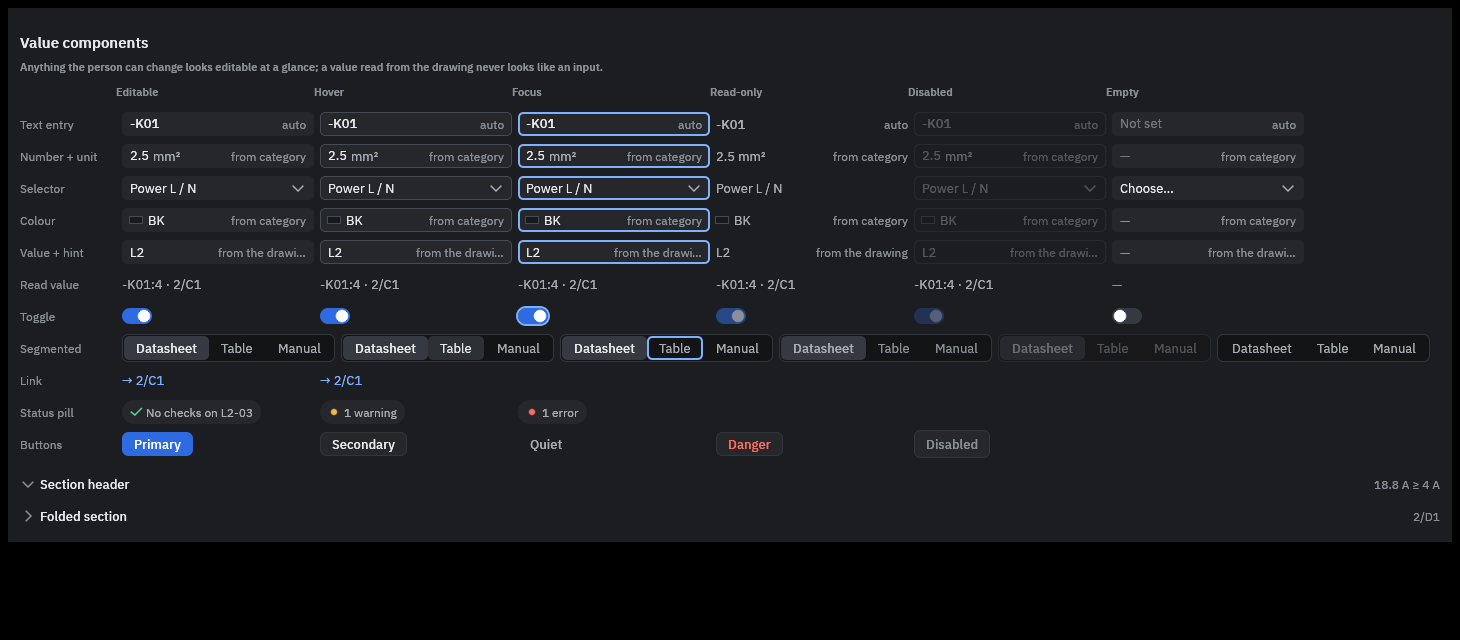
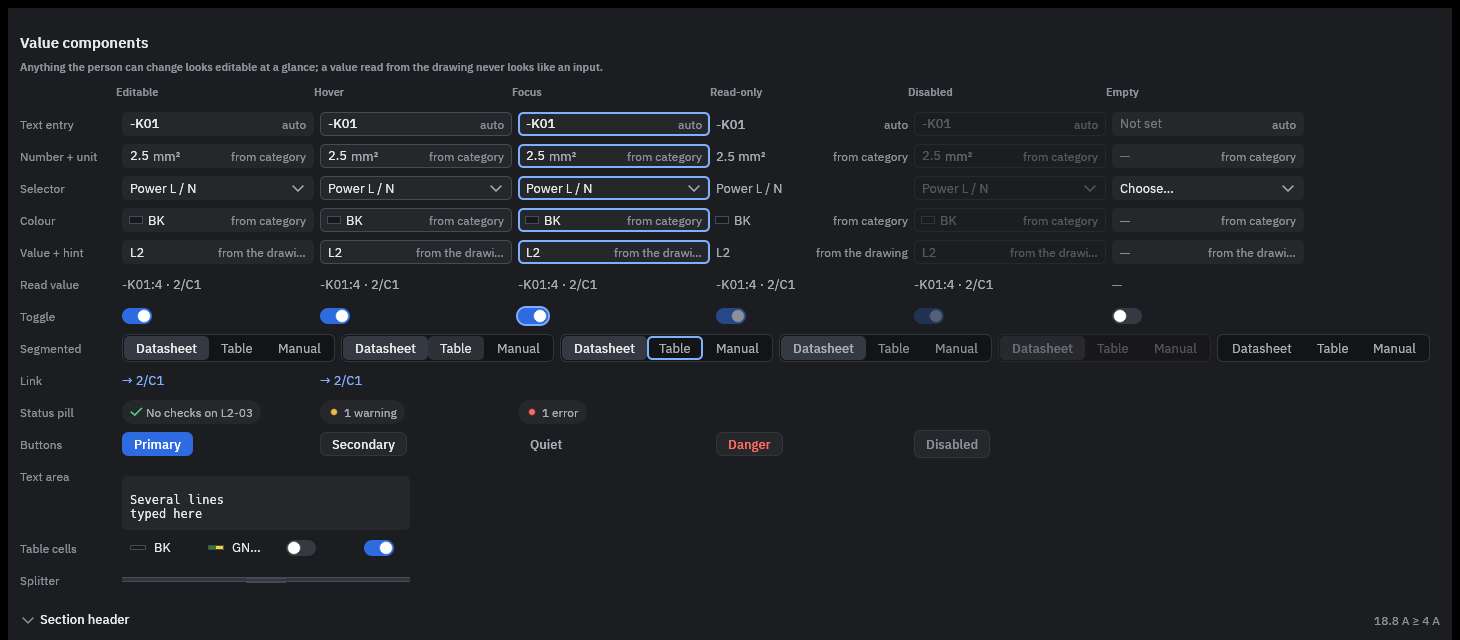
059b: owner review of the side-by-sides
- The right rail's first button says Cable on Project > Cables (Wire on
  Wires, Device on Devices, Properties on the other tabs).
- The splitter is a clearly defined double line across the width, a
  filled band between two lines, for every split; gallery images and
  components.md updated.
- The cable Details pane has Cable / Checks tabs (Checks with its count,
  listing this cable's rows with a Go to), and 057's Rating section sits
  between Part and Ends as on board 2.06; a cable with nothing to rate
  shows it with "Set a cable type to rate this cable."

Changed region(s): [[0.0, 0.8438, 1.0, 1.0], [0.0308, 0.75, 0.1541, 0.8125], [0.9555, 0.75, 0.9863, 0.7812]]

diff --git a/ecad/apps/ecad-trial/src/lists/detail.rs b/ecad/apps/ecad-trial/src/lists/detail.rs
@@ -33,6 +33,10 @@ pub const NOTHING: &str = "Select a row to see it here.";
 /// The greyed parts buttons' reason.
 pub const CATALOGUE_COMES: &str = "The part catalogue comes later.";
 pub const CABLE_MANAGER_COMES: &str = "Comes with the cable manager.";
+/// Brief 059 (owner): the Rating section of a cable with nothing to rate yet.
+pub const RATE_NOTE: &str = "Set a cable type to rate this cable.";
+/// Brief 059 (board 2.06): the Details pane's tabs and their accessible name.
+pub const CABLE_TABS: &str = "ecad.project.detail.cable.tabs";
 /// A cross-section's unit.
 const MM2: &str = "mm\u{b2}";
 
@@ -460,8 +464,12 @@ fn cable(t: &Trial, k: usize) -> Option<Detail> {
         editor: false,
         cable_editor: v.ids.get(k).map(|c| (*c, [from, to])),
         core_fixes,
-        // Brief 059: Identity, Part and Ends are the cable editor's; the Rating section stays 057's.
-        sections: vec![rating_section(t, v.source.rating(k), &v.source.rating.methods)],
+        // Brief 059: Identity, Part and Ends are the cable editor's; the Rating section stays 057's,
+        // and shows a note when the cable has nothing to rate yet (owner, review of 059).
+        sections: vec![match v.source.rating(k) {
+            Some(r) => rating_section(t, Some(r), &v.source.rating.methods),
+            None => Section { title: "Rating", hint: "not rated".into(), note: Some(RATE_NOTE), ..Section::default() },
+        }],
     })
 }
 
@@ -551,6 +559,41 @@ fn section_head(ui: &mut egui::Ui, id: egui::Id, title: &str, hint: &str) -> boo
     open
 }
 
+/// One folding section (its head, then its rows); returns what it asked for.
+fn draw_section(ui: &mut egui::Ui, sec: &Section, writable: bool) -> Vec<Out> {
+    let s = ecad_ui::SHELL;
+    let mut out = Vec::new();
+    let id = egui::Id::unique(("ecad.project.detail", sec.title));
+    if section_head(ui, id, sec.title, &sec.hint) {
+        if let Some(rp) = &sec.rating {
+            let rp = super::rating::Panel { writable, ..rp.clone() };
+            out.extend(super::rating::show(ui, &rp).into_iter().map(|(c, v)| Out::Run(c, v)));
+        }
+        for p in &sec.props {
+            prop_row(ui, p);
+        }
+        for (a, b) in &sec.lines {
+            ui.horizontal(|ui| {
+                ui.label(egui::RichText::new(a).size(ui_type::BODY.size).color(ecad_ui::color(s.text)));
+                ui.with_layout(egui::Layout::right_to_left(egui::Align::Center), |ui| {
+                    ui.label(egui::RichText::new(b).size(ui_type::SMALL.size).color(ecad_ui::color(s.text_2)));
+                });
+            });
+        }
+        if !sec.later.is_empty() {
+            ui.horizontal(|ui| {
+                for (label, why) in &sec.later {
+                    ui.add(prim::Button::new(label).small().disabled(why));
+                }
+            });
+        }
+        if let Some(n) = sec.note {
+            ui.add(egui::Label::new(egui::RichText::new(n).size(ui_type::SMALL.size).color(ecad_ui::color(s.text_3))).wrap());
+        }
+    }
+    out
+}
+
 /// What the panel asks the trial for.
 #[derive(Debug, Clone, PartialEq)]
 enum Out {
@@ -575,6 +618,9 @@ pub fn show(t: &mut Trial, ui: &mut egui::Ui, rect: Rect) {
     let writable = t.project_writable();
     let mut out = Vec::new();
     let devices = &mut t.panel.devices;
+    // Brief 059 (board 2.06): the cable's Cable / Checks tabs, and its Checks rows.
+    let (mut cable_tab, cable_checks) = t.reports.as_ref().map_or((0, Vec::new()), |r| (r.cables.detail_tab, r.cables.cable_checks.clone()));
+    let tab_before = cable_tab;
     let mut cable_edit = t.reports.as_mut().map(|r| &mut r.cables.edit);
     let full = rect.x_range();
     let rule = |ui: &mut egui::Ui| panel::rule(ui, full);
@@ -594,6 +640,34 @@ pub fn show(t: &mut Trial, ui: &mut egui::Ui, rect: Rect) {
             });
             ui.label(egui::RichText::new(&d.subtitle).size(ui_type::SMALL.size).color(ecad_ui::color(s.text_2)));
             ui.add_space(space::S);
+            // Brief 059 (board 2.06): Cable | Checks n.
+            if d.cable_editor.is_some() {
+                let checks_label = if cable_checks.is_empty() { "Checks".to_string() } else { format!("Checks \u{25cf} {}", cable_checks.len()) };
+                let labels = ["Cable", checks_label.as_str()];
+                prim::Segmented::new(&mut cable_tab, &labels).name(CABLE_TABS).show(ui);
+                ui.add_space(space::S);
+                if cable_tab == 1 {
+                    if cable_checks.is_empty() {
+                        let words = format!("No checks on {}", d.title);
+                        panel::status_pill(ui, Tone::Ok, &words, &format!("\u{2713} {words}"));
+                    }
+                    for (c, place) in &cable_checks {
+                        let tone = match c.severity() {
+                            ecad_cadcraft::checks::Severity::Error => Tone::Error,
+                            ecad_cadcraft::checks::Severity::Warning => Tone::Warning,
+                            ecad_cadcraft::checks::Severity::Info => Tone::Neutral,
+                        };
+                        let words = c.what();
+                        panel::status_pill(ui, tone, &words, &words);
+                        if c.page.is_some()
+                            && ecad_ui::control::link(ui, &format!("\u{2192} {}", if place.is_empty() { "Go to" } else { place })).clicked()
+                        {
+                            out.push(Out::Panel(crate::project_panel::Action::GotoCheck(Box::new(c.clone()))));
+                        }
+                    }
+                    return;
+                }
+            }
             // Its own checks.
             if d.checks.is_empty() {
                 let words = format!("No checks on {}", d.title);
@@ -612,9 +686,18 @@ pub fn show(t: &mut Trial, ui: &mut egui::Ui, rect: Rect) {
             }
             ui.add_space(space::S);
             rule(ui);
-            // Brief 059: the cable editor (design 059 §5.2), before 057's Rating section.
+            // Brief 059: the cable editor (design 059 §5.2), with 057's Rating section between Part
+            // and Ends, as board 2.06 orders them.
             if let (Some((cable, ends)), Some(ed)) = (&d.cable_editor, cable_edit.take()) {
-                let asks = super::cable_editor::show(ui, ed, ends.clone(), writable, &|ui: &mut egui::Ui| panel::rule(ui, full));
+                let mut mid = Vec::new();
+                let mut middle = |ui: &mut egui::Ui| {
+                    for sec in d.sections.iter().filter(|s| !s.title.is_empty()) {
+                        mid.extend(draw_section(ui, sec, writable));
+                        panel::rule(ui, full);
+                    }
+                };
+                let asks = super::cable_editor::show(ui, ed, ends.clone(), writable, &|ui: &mut egui::Ui| panel::rule(ui, full), &mut middle);
+                out.extend(mid);
                 out.extend(asks.into_iter().map(|a| Out::Cable(*cable, a)));
                 rule(ui);
             }
@@ -625,39 +708,20 @@ pub fn show(t: &mut Trial, ui: &mut egui::Ui, rect: Rect) {
                 }
                 rule(ui);
             }
-            for sec in d.sections.iter().filter(|s| !s.title.is_empty()) {
-                let id = egui::Id::unique(("ecad.project.detail", sec.title));
-                if section_head(ui, id, sec.title, &sec.hint) {
-                    if let Some(rp) = &sec.rating {
-                        let rp = super::rating::Panel { writable, ..rp.clone() };
-                        out.extend(super::rating::show(ui, &rp).into_iter().map(|(c, v)| Out::Run(c, v)));
-                    }
-                    for p in &sec.props {
-                        prop_row(ui, p);
-                    }
-                    for (a, b) in &sec.lines {
-                        ui.horizontal(|ui| {
-                            ui.label(egui::RichText::new(a).size(ui_type::BODY.size).color(ecad_ui::color(s.text)));
-                            ui.with_layout(egui::Layout::right_to_left(egui::Align::Center), |ui| {
-                                ui.label(egui::RichText::new(b).size(ui_type::SMALL.size).color(ecad_ui::color(s.text_2)));
-                            });
-                        });
-                    }
-                    if !sec.later.is_empty() {
-                        ui.horizontal(|ui| {
-                            for (label, why) in &sec.later {
-                                ui.add(prim::Button::new(label).small().disabled(why));
-                            }
-                        });
-                    }
-                    if let Some(n) = sec.note {
-                        ui.add(egui::Label::new(egui::RichText::new(n).size(ui_type::SMALL.size).color(ecad_ui::color(s.text_3))).wrap());
-                    }
+            // A cable's sections (057's Rating) were drawn inside the editor, after Part.
+            if d.cable_editor.is_none() {
+                for sec in d.sections.iter().filter(|s| !s.title.is_empty()) {
+                    out.extend(draw_section(ui, sec, writable));
+                    rule(ui);
                 }
-                rule(ui);
             }
         });
     });
+    if cable_tab != tab_before
+        && let Some(r) = t.reports.as_mut()
+    {
+        r.cables.detail_tab = cable_tab;
+    }
     for o in out {
         match o {
             Out::Go(Go::Symbols(reps)) => {

diff --git a/ecad/apps/ecad-trial/tests/all/lanes/lane_059.rs b/ecad/apps/ecad-trial/tests/all/lanes/lane_059.rs
@@ -71,6 +71,11 @@ fn plus_cable_builds_a_cable_not_drawn_and_its_details_edit_it() {
     assert!(h.query_all_by_label_contains("not drawn").next().is_some(), "the not drawn badge");
     assert!(h.query_all_by_label_contains("1 not drawn").next().is_some(), "the footer counts it");
     assert!(h.query_by_label("ecad.project.detail.cable.tag").is_some(), "the Tag box");
+    // Owner review of the side-by-sides: the rail says Cable; Cable | Checks tabs; the Rating
+    // section is shown with its note when there is nothing to rate.
+    assert_eq!(ecad_trial::shell::right::shows_word(h.state_mut()), "Cable");
+    assert!(h.query_all_by_label_contains(ecad_trial::lists::detail::CABLE_TABS).next().is_some(), "the Cable / Checks tabs");
+    assert!(h.query_all_by_label_contains("Set a cable type to rate").next().is_some(), "the Rating note");
     assert!(h.query_all_by_label_contains("ecad.project.detail.cable.drawn").next().is_some(), "Not drawn yet");
     // Typing a length commits one cableedit on Enter.
     let n = h.get_by_label("ecad.project.detail.cable.length");
@@ -134,6 +139,9 @@ fn removing_a_drawn_cable_is_refused_with_a_go_to_per_page() {
     h.state_mut().reports.as_mut().unwrap().cables.details = true;
     h.run_steps(8);
     let head = doc(&mut h).cables.len();
+    // The footer is below the Rating section: scroll it into view first.
+    h.get_by_label(ecad_trial::lists::cable_editor::REMOVE).scroll_to_me();
+    h.run_steps(4);
     h.get_by_label(ecad_trial::lists::cable_editor::REMOVE).click();
     h.run_steps(6);
     assert_eq!(doc(&mut h).cables.len(), head, "nothing removed");
@@ -141,6 +149,14 @@ fn removing_a_drawn_cable_is_refused_with_a_go_to_per_page() {
     assert!(refused.0.contains("-W01 is drawn on") && refused.0.contains("Delete it on its page."), "{refused:?}");
     assert!(!refused.1.is_empty(), "a Go to per page");
     assert!(h.query_by_label("ecad.lists.cables.remove.refused").is_some());
+    // The Checks tab lists -W01's own rows (its open core) with a Go to.
+    let rows = h.state().reports.as_ref().unwrap().cables.cable_checks.clone();
+    assert!(rows.iter().any(|(c, _)| c.kind == ecad_cadcraft::checks::Kind::CoreOpen), "{rows:?}");
+    h.state_mut().reports.as_mut().unwrap().cables.detail_tab = 1;
+    h.run_steps(4);
+    assert!(h.query_all_by_label_contains("core GNYE is not assigned").next().is_some(), "the Checks tab lists it");
+    h.state_mut().reports.as_mut().unwrap().cables.detail_tab = 0;
+    h.run_steps(2);
     shot(&h, &deltas, "059-remove-refused.png");
     let _ = std::fs::remove_dir_all(&dir);
 }

diff --git a/ecad/apps/ecad-trial/src/lists/cables.rs b/ecad/apps/ecad-trial/src/lists/cables.rs
@@ -334,6 +334,11 @@ pub struct CablesView {
     pub edit: super::cable_editor::Editor,
     pub pending_select: Option<CableId>,
     pub undrawn: Vec<(CableId, String)>,
+    /// Brief 059 (owner, board 2.06): the Details pane's tab, Cable (0) or Checks (1), and the
+    /// selected cable's Checks rows with their place (`2/E3`), read with its copy.
+    pub detail_tab: usize,
+    pub cable_checks: Vec<(ecad_cadcraft::checks::Check, String)>,
+    checks_of: Option<(CableId, u64)>,
 }
 
 impl Default for CablesView {
@@ -361,6 +366,9 @@ impl Default for CablesView {
             edit: Default::default(),
             pending_select: None,
             undrawn: Vec::new(),
+            detail_tab: 0,
+            cable_checks: Vec::new(),
+            checks_of: None,
         }
     }
 }
@@ -481,6 +489,35 @@ impl CablesView {
         let rows = c.rows.rows.len();
         c.field_wires = (0..rows).map(|k| selected.map(|cab| beyond(doc, cab, &c.rows.text(k, "To"))).unwrap_or_default()).collect();
         self.core_table.update(&self.cores, Changed::All);
+    }
+
+    /// Brief 059 (board 2.06): the selected cable's Checks rows (the kept list's rows about it),
+    /// read again only when the selection or the project's change count changed.
+    pub fn sync_checks(&mut self, p: &mut ecad_cadcraft::project::Project, count: u64) {
+        let selected = self.selected().and_then(|k| self.ids.get(k).copied());
+        let want = selected.map(|k| (k, count));
+        if want == self.checks_of {
+            return;
+        }
+        self.checks_of = want;
+        self.cable_checks.clear();
+        let Some(k) = selected else { return };
+        let rows: Vec<ecad_cadcraft::checks::Check> =
+            p.checks().rows().filter(|c| c.object == ecad_cadcraft::checks::Object::Cable(k)).cloned().collect();
+        let doc = p.ledger.document();
+        let style = doc.settings.reference_style;
+        let mut rows = ecad_cadcraft::checks::sort(doc, rows);
+        rows.truncate(200);
+        self.cable_checks = rows
+            .into_iter()
+            .map(|c| {
+                let place = match (c.page, c.at) {
+                    (Some(pg), Some(at)) => ecad_model::wiring::place(doc, pg, at).map(|x| x.text(style)).unwrap_or_default(),
+                    _ => String::new(),
+                };
+                (c, place)
+            })
+            .collect();
     }
 
     /// The selected cable as drawn (board 2.06).

diff --git a/ecad/crates/ecad-ui/src/splitter.rs b/ecad/crates/ecad-ui/src/splitter.rs
@@ -1,6 +1,6 @@
 //! A splitter: the handle between two panes that a person drags to share the space (brief 057,
-//! owner: Project ▸ Cables' Details pane). One look for every split in the app: a double hairline
-//! with a small gap and a grip in the middle, a resize cursor on hover, and the hover colour while
+//! owner: Project ▸ Cables' Details pane). One look for every split in the app: a double line
+//! across the width with a filled band between (owner, review of 059) and a grip in the middle, a resize cursor on hover, and the hover colour while
 //! hovered or dragged.
 
 use egui::{CursorIcon, Response, Sense, Stroke, Ui, pos2, vec2};
@@ -8,11 +8,11 @@ use egui::{CursorIcon, Response, Sense, Stroke, Ui, pos2, vec2};
 use crate::tokens::{line, space};
 
 /// The handle's height (a horizontal splitter) or width (a vertical one).
-pub const THICKNESS: f32 = space::M;
-/// The gap between the two hairlines.
-const GAP: f32 = 3.0;
+pub const THICKNESS: f32 = space::L;
+/// The gap between the two lines (owner, review of 059: a clearly defined double line).
+const GAP: f32 = 4.0;
 /// The grip's length in the middle.
-const GRIP: f32 = 28.0;
+const GRIP: f32 = 40.0;
 
 /// A horizontal splitter across the available width, between a pane above and one below. Drag it
 /// up or down: its [`Response::drag_delta`] is the move. `name` is its accessible name.
@@ -29,6 +29,9 @@ pub fn horizontal(ui: &mut Ui, name: &str) -> Response {
         }
         let ink = crate::color(if hot { s.accent } else { s.line_strong });
         let cy = rect.center().y;
+        // The band between the two lines, so the split reads as one defined edge across the width.
+        let band = egui::Rect::from_x_y_ranges(rect.x_range(), (cy - GAP / 2.0)..=(cy + GAP / 2.0));
+        p.rect_filled(band, 0.0, crate::color(if hot { s.hover } else { s.line }));
         for y in [cy - GAP / 2.0, cy + GAP / 2.0] {
             p.hline(rect.x_range(), y, Stroke::new(line::HAIRLINE_PX, ink));
         }

diff --git a/ecad/apps/ecad-trial/src/lists/cable_editor.rs b/ecad/apps/ecad-trial/src/lists/cable_editor.rs
@@ -237,8 +237,11 @@ fn type_value(c: &Copy, i: usize) -> serde_json::Value {
 }
 
 /// The cable's editable sections and footer (board 2.06), in the Details pane. `ends` are its
-/// drawn ends (`+CAB1 -X01`). Returns what was asked for; the caller runs it.
-pub fn show(ui: &mut egui::Ui, ed: &mut Editor, ends: [String; 2], writable: bool, rule: &dyn Fn(&mut egui::Ui)) -> Vec<Ask> {
+/// drawn ends (`+CAB1 -X01`); `middle` draws the sections that go between Part and Ends (057's
+/// Rating). Returns what was asked for; the caller runs it.
+pub fn show(
+    ui: &mut egui::Ui, ed: &mut Editor, ends: [String; 2], writable: bool, rule: &dyn Fn(&mut egui::Ui), middle: &mut dyn FnMut(&mut egui::Ui),
+) -> Vec<Ask> {
     let mut out = Vec::new();
     let s = ecad_ui::SHELL;
     // Identity.
@@ -278,6 +281,8 @@ pub fn show(ui: &mut egui::Ui, ed: &mut Editor, ends: [String; 2], writable: boo
     entry(ui, ed, CableField::Description, "Description", "ecad.project.detail.cable.description", writable, &mut out);
     entry(ui, ed, CableField::Length, "Length", "ecad.project.detail.cable.length", writable, &mut out);
     rule(ui);
+    // 057's Rating section (board 2.06: after Part).
+    middle(ui);
     // Ends: each end's drawn end, then its planned function and location (Q4).
     panel::section_header(ui, true, "Ends", "planned and drawn");
     for (i, side) in Side::BOTH.into_iter().enumerate() {

diff --git a/ecad/apps/ecad-trial/src/shell/right.rs b/ecad/apps/ecad-trial/src/shell/right.rs
@@ -334,6 +334,17 @@ fn header(ui: &mut egui::Ui, title: &str, sub: &str, row: bool, accent: bool) ->
 /// `Page` for a page or a generated page, `Device` for a device, `Wire`, `Cable` and so on for
 /// the other selections. The button's accessible name stays [`rail_label`].
 pub fn shows_word(t: &mut Trial) -> &'static str {
+    // Brief 059 (owner, review of the side-by-sides): in the Project workspace the panel shows the
+    // selected row of the tab shown: `Cable` on Cables, `Wire` on Wires, `Device` on Devices,
+    // else `Properties`.
+    if t.shell.state.workspace == crate::shell::Workspace::Lists {
+        return match t.shell.lists {
+            crate::shell::ListsView::Cables => "Cable",
+            crate::shell::ListsView::Wires => "Wire",
+            crate::shell::ListsView::Devices => "Device",
+            _ => "Properties",
+        };
+    }
     if t.settings.inspector.device.is_some() {
         return "Device";
     }

diff --git a/ecad/apps/ecad-trial/src/outputs_ui.rs b/ecad/apps/ecad-trial/src/outputs_ui.rs
@@ -195,6 +195,8 @@ impl Reports {
         if self.cables_shown {
             let count = p.change_count();
             self.cables.sync_colours(p.ledger.document(), count);
+            // Brief 059: the Details pane's Checks tab.
+            self.cables.sync_checks(p, count);
         }
         let reference_style = p.ledger.document().settings.reference_style;
         let style = reference_style as u64;

diff --git a/ecad/docs/design/components.md b/ecad/docs/design/components.md
@@ -55,7 +55,7 @@ out one row; `panel::value_row` does it for a value with its kind.
 | Component | For | API |
 | --- | --- | --- |
 | Text area | Several lines typed here (a rating table's CSV rows): the entry box, taller, in the code font | `control::TextArea` |
-| Splitter | Resizing two stacked regions: a double hairline with a grip, a resize cursor and a hover highlight | `ecad_ui::splitter::horizontal(ui, name)` |
+| Splitter | Resizing two stacked regions: a clearly defined double line across the width (a filled band between two lines) with a grip, a resize cursor and a hover highlight | `ecad_ui::splitter::horizontal(ui, name)` |
 | Colour cell | A colour in a table cell: the colour bar, then the code | `ecad_ui::table` `Cell::Colour(bars, code)` |
 | Toggle cell | On or off in a table row (a core's Not used): `control::Toggle` in the cell; a click reports `TableEvent::Button` | `ecad_ui::table` `Cell::Toggle(on)` |
 
